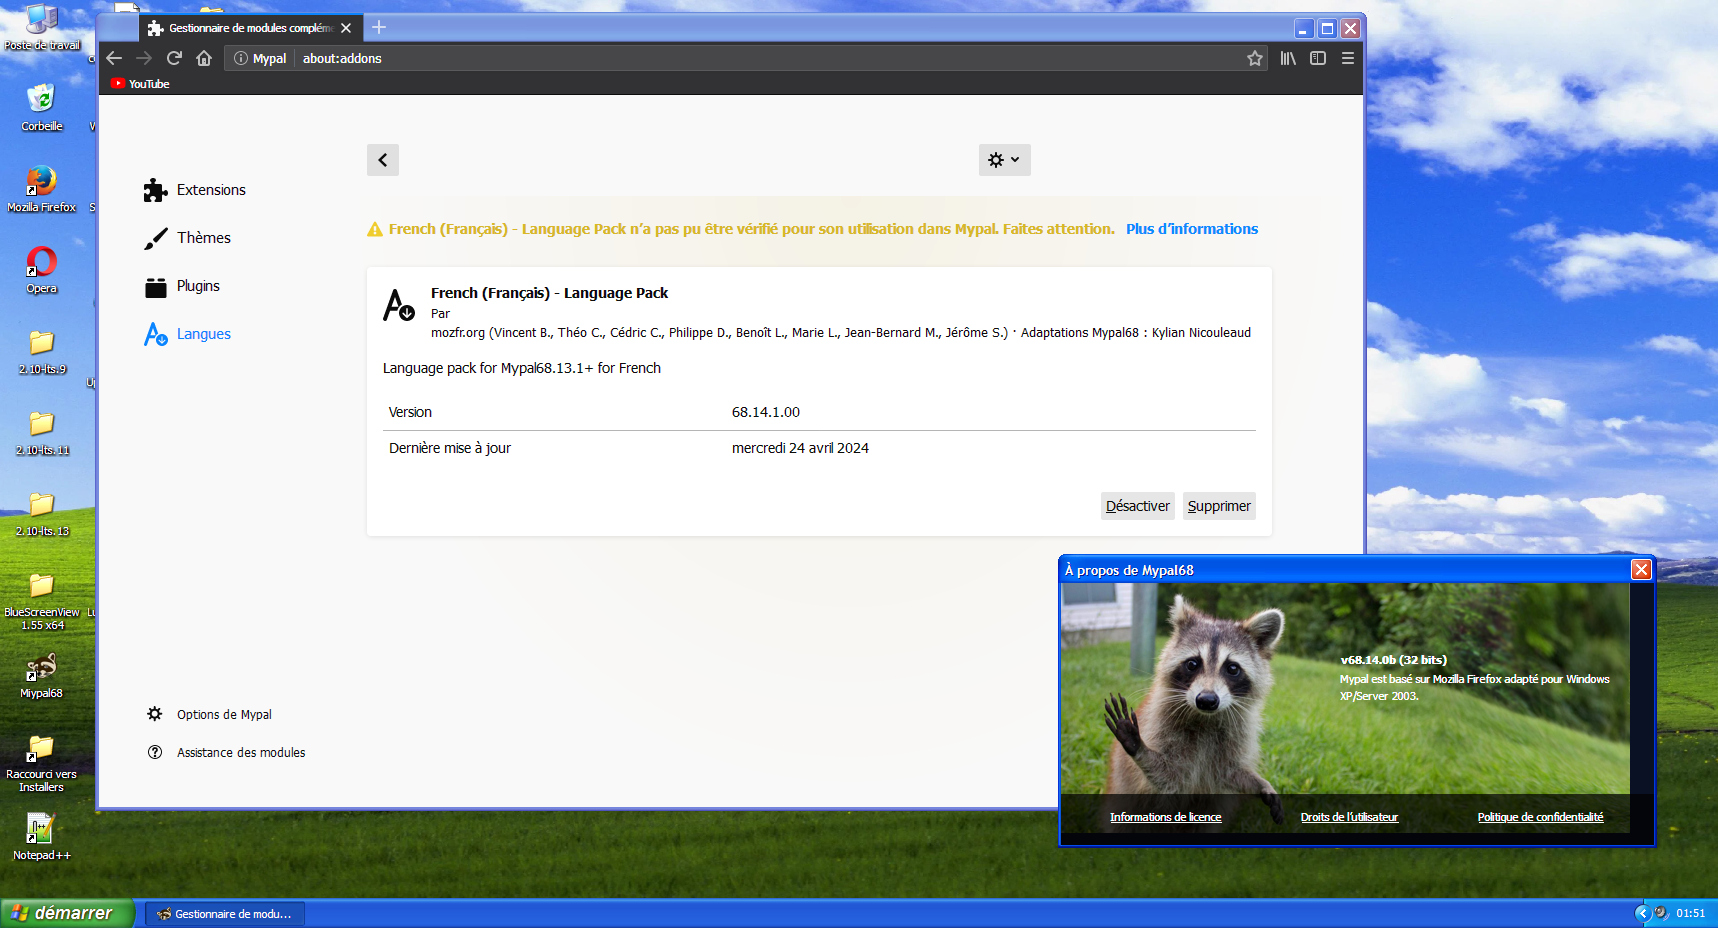
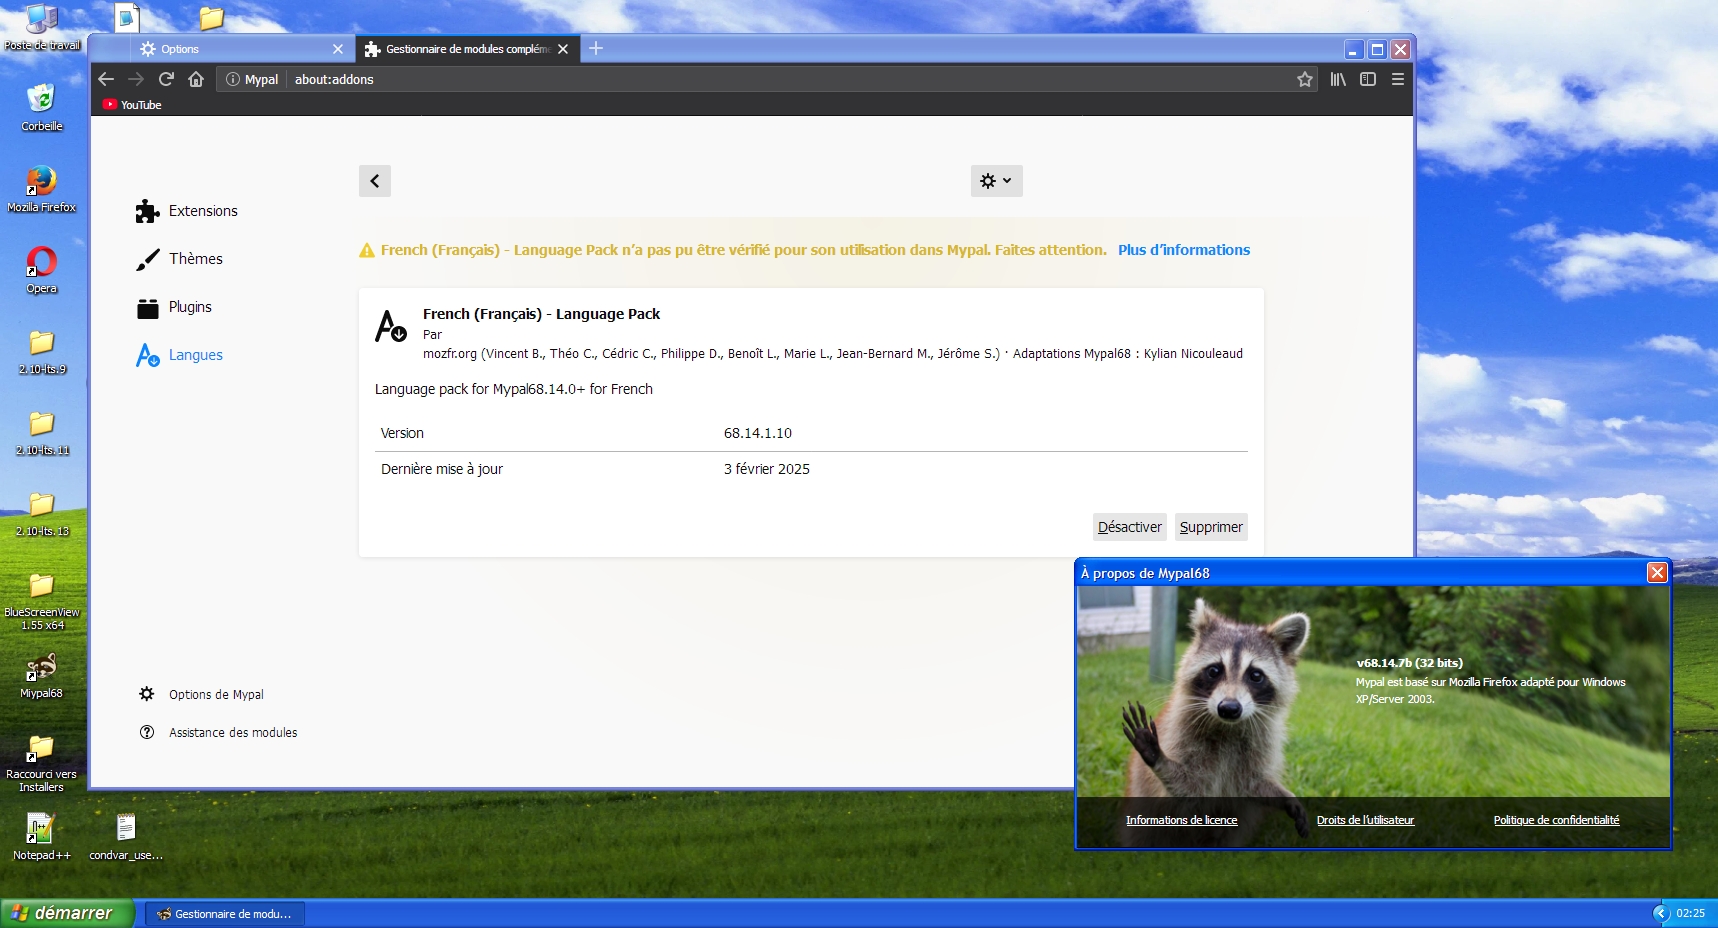
Update v68.14.1.10

diff --git a/README.md b/README.md
@@ -17,8 +17,8 @@ As a clean is performed each major version published (68.13; 68.14; and so on), 
 
 Here you can find a table with the most recommended version to use for each version of Mypal68:
 
-| Version                                                                                                                                                 | Recommanded LP release                                                  |
-|---------------------------------------------------------------------------------------------------------------------------------------------------------|-------------------------------------------------------------------------|
-| [v68.13.0b]()                                                                                                                                           | **Unsupported**                                                         |
-| [v68.13.1b](https://github.com/Feodor2/Mypal68/releases/tag/68.13.1b) up to [v68.13.9b](https://codeberg.org/Theodor2/Mypal68/releases/tag/68.13.9b)    | [v68.13.1.30](../../releases/tag/v68.13.1.30) (Released April 23, 2024) |
-| [v68.14.0b](https://codeberg.org/Theodor2/Mypal68/releases/tag/68.14.0b) and [later](https://codeberg.org/Theodor2/Mypal68/releases)                    | [v68.14.1.00](../../releases/tag/v68.14.1.00) (Released April 24, 2024) |
+| Version                                                                                                                                                 | Recommanded LP release                                                               |
+|---------------------------------------------------------------------------------------------------------------------------------------------------------|--------------------------------------------------------------------------------------|
+| [v68.13.0b](https://github.com/Feodor2/Mypal68/releases/tag/68.13b) and earlier                                                                         | **Unsupported**                                                                      |
+| [v68.13.1b](https://github.com/Feodor2/Mypal68/releases/tag/68.13.1b) up to [v68.13.9b](https://codeberg.org/Theodor2/Mypal68/releases/tag/68.13.9b)    | [v68.13.1.30](../../releases/tag/v68.13.1.30) (Released April 23, 2024)              |
+| [v68.14.0b](https://github.com/Feodor2/Mypal68/releases/tag/68.14.0b) and [later](https://github.com/Feodor2/Mypal68/releases)                          | [v68.14.1.10](../../releases/tag/v68.14.1.10) (Released February 03, 2025)           |
